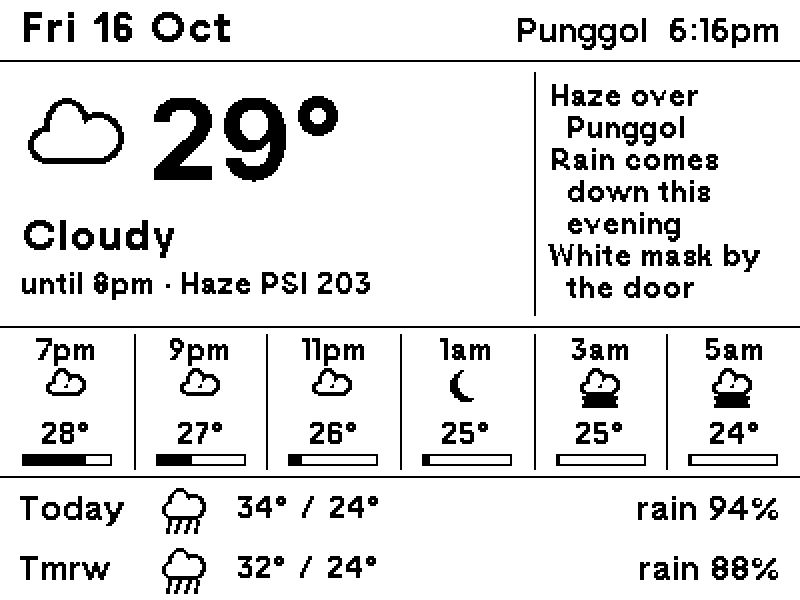
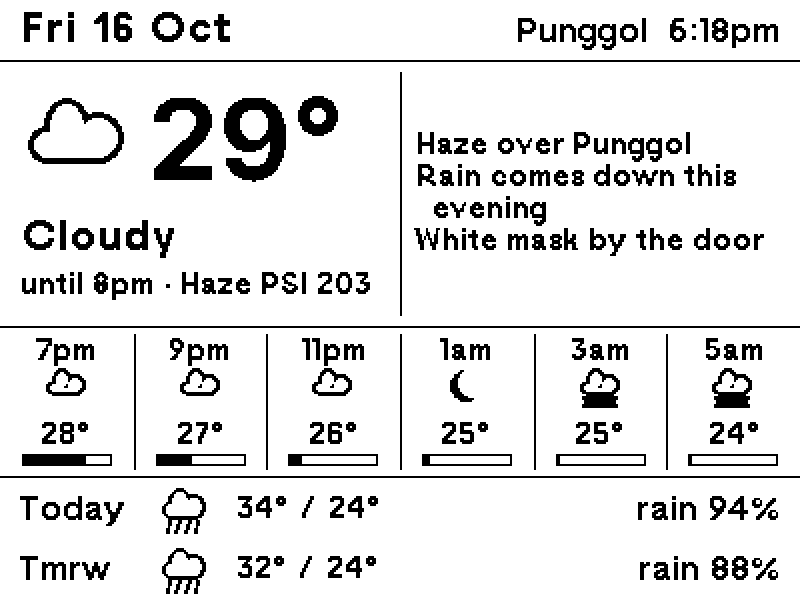
note: haiku panel takes 3/6 of the width; long conditions wrap
Main block and haiku panel split at the 3rd hourly divider. Panel width is
now a setting passed to the haiku fit check.

Changed region(s): [[0.5, 0.12, 0.9688, 0.51], [0.875, 0.03, 0.9062, 0.06]]

diff --git a/screens/note.py b/screens/note.py
@@ -1,9 +1,9 @@
 """Layout "note": glance with a compact main block, a side panel for an LLM weather haiku, and a
 6-column hourly strip.
 
-Grid: the hourly strip is 6 columns of 400/6 px. The main block spans exactly 4 of them
-(x 0-267) and the note panel the other 2, so the panel divider lines up with the 4th column
-divider below. Hourly slots keep glance's slot proportions (100x112 -> 67x75).
+Grid: the hourly strip is 6 columns of 400/6 px. The main block spans exactly 3 of them
+(x 0-200) and the haiku panel the other 3, so the panel divider lines up with the 3rd column
+divider below (2/6 and 2.5/6 were tried; 2.5 breaks the grid). Hourly slots keep glance's slot proportions (100x112 -> 67x75).
 """
 import datetime as dt
 
@@ -16,7 +16,8 @@ from screens import quip, weather
 
 COLS = 6
 COL_W = 400 / COLS
-SPLIT = round(4 * COL_W)                       # 267: main | note
+MAIN_COLS = 3                                  # main block width in hourly columns; the rest is the panel
+SPLIT = round(MAIN_COLS * COL_W)               # main | note divider
 MAIN_TOP, HOURLY_TOP, DAYS_TOP = 30, 163, 238  # horizontal rules
 INDENT = 8  # continuation lines of a wrapped haiku line
 
@@ -24,8 +25,13 @@ INDENT = 8  # continuation lines of a wrapped haiku line
 def fetch(lat: float, lon: float) -> dict:
     """Weather data plus the LLM quip (cached; None when unavailable)."""
     data = weather.fetch(lat, lon)
-    data["quip"] = quip.get(data)
+    data["quip"] = quip.get(data, width=panel_text_width())
     return data
+
+
+def panel_text_width() -> int:
+    """Usable haiku line width in the side panel (continuation lines are indented)."""
+    return 400 - SPLIT - 14 - INDENT
 
 
 def note_text(data: dict) -> tuple[str, str | None]:
@@ -42,13 +48,23 @@ def _main(img, d, fc: Forecast):
     icon_mid(img, icons.nea_kind(fc.condition), 38, cy, 56, night=fc.night(fc.now))
     text_mid(d, 74, cy, f"{round(fc.cur['temperature_2m'])}°", bold(56))
 
-    # condition on one line under them: 21 px if it fits, else 16 px
+    # condition under them: one line at 21 px if it fits, else 16 px, wrapping to two lines if needed
     width = SPLIT - 20
-    font = bold(21) if d.textlength(fc.condition, font=bold(21)) <= width else bold(16)
-    text_top(d, 10, 110, wrap(d, fc.condition, font, width, max_lines=1)[0], font)
-    sub = " · ".join(s for s in (fc.until and f"until {fc.until}", fc.psi > 100 and f"Haze PSI {fc.psi}") if s)
-    if sub:
-        text_top(d, 10, 136, wrap(d, sub, medium(14), width, max_lines=1)[0], medium(14))
+    if d.textlength(fc.condition, font=bold(21)) <= width:
+        lines, font, sub_y = [fc.condition], bold(21), 136
+    else:
+        font = bold(16)
+        lines = wrap(d, fc.condition, font, width, max_lines=2)
+        sub_y = 136 if len(lines) == 1 else 144
+    for k, line in enumerate(lines):
+        text_top(d, 10, (110 if len(lines) == 1 else 106) + k * 18, line, font)
+    parts = [s for s in (fc.until and f"until {fc.until}", fc.psi > 100 and f"Haze PSI {fc.psi}") if s]
+    joined = " · ".join(parts)
+    if parts and d.textlength(joined, font=medium(14)) <= width:
+        text_top(d, 10, sub_y, joined, medium(14))
+    else:  # narrow main block: until / haze on their own lines
+        for k, part in enumerate(parts):
+            text_top(d, 10, sub_y - 4 + k * 16, wrap(d, part, medium(14), width, max_lines=1)[0], medium(14))
 
 
 def _note(d, data: dict):

diff --git a/screens/quip.py b/screens/quip.py
@@ -18,13 +18,13 @@ from screens.weather import psi_band
 
 CACHE = Path(__file__).resolve().parent.parent / ".cache" / "quip.json"
 MIN_WORDS, MAX_WORDS = 8, 22  # a 5-7-5 haiku in English
-PANEL_W, PANEL_LINES = 400 - 267 - 14 - 8, 7  # note.py side panel at 14 px, minus continuation indent
+PANEL_W, PANEL_LINES = 400 - 200 - 14 - 8, 7  # default: note.py panel at 3/6, 14 px; note passes its width
 
 
-def fits(text: str) -> bool:
+def fits(text: str, width: int = PANEL_W) -> bool:
     """True if the haiku fits the side panel at the larger 14 px size."""
     d = ImageDraw.Draw(Image.new("1", (1, 1)))
-    return len(wrap_lines(d, text, medium(14), PANEL_W)) <= PANEL_LINES
+    return len(wrap_lines(d, text, medium(14), width)) <= PANEL_LINES
 
 SYSTEM = """You write a haiku for a small black-and-white e-ink weather display in a home in Punggol, \
 Singapore.
@@ -80,7 +80,8 @@ def clean(text: str) -> str:
     return "\n".join(lines)
 
 
-def generate(fc: Forecast, data: dict, attempts: int = 4, model: str | None = None) -> tuple[str, str]:
+def generate(fc: Forecast, data: dict, attempts: int = 4, model: str | None = None,
+             width: int = PANEL_W) -> tuple[str, str]:
     """Ask the model until a reply passes validation. Returns (haiku, model).
 
     openrouter/free picks a random free model per request, and some of them are useless here (a
@@ -96,7 +97,7 @@ def generate(fc: Forecast, data: dict, attempts: int = 4, model: str | None = No
             continue
         text = clean(text)
         words, lines = len(text.split()), len(text.splitlines())
-        if lines == 3 and MIN_WORDS <= words <= MAX_WORDS and fits(text):
+        if lines == 3 and MIN_WORDS <= words <= MAX_WORDS and fits(text, width):
             return text, used
         problems.append(f"{used}: {lines} lines, {words} words")
         prompt = base + (f"\n\nA previous answer had {lines} lines and {words} words. "
@@ -104,7 +105,7 @@ def generate(fc: Forecast, data: dict, attempts: int = 4, model: str | None = No
     raise RuntimeError("no usable haiku: " + "; ".join(problems))
 
 
-def get(data: dict, now: dt.datetime | None = None, force: bool = False) -> str | None:
+def get(data: dict, now: dt.datetime | None = None, force: bool = False, width: int = PANEL_W) -> str | None:
     """Cached quip for the current forecast, or None if unavailable."""
     if not llm.configured():
         return None
@@ -114,7 +115,7 @@ def get(data: dict, now: dt.datetime | None = None, force: bool = False) -> str 
     if not force and cached.get("sig") == sig:
         return cached["text"]
     try:
-        text, model = generate(fc, data)
+        text, model = generate(fc, data, width=width)
     except Exception as exc:
         print(f"quip: generation failed ({exc}); using fallback")
         return cached.get("text") if cached.get("sig", "").split("|")[0] == sig.split("|")[0] else None

diff --git a/README.md b/README.md
@@ -42,7 +42,7 @@ Switch with `epd.cli use <name>`. The choice is stored in [`config.toml`](config
 | --- | --- | --- |
 | `glance` (layout A) | Header · big icon + temperature (top-aligned with the condition), NEA condition, "until 6.30pm", haze line only if PSI > 100 · next 12 h as 4 slots 3 h apart (hour, icon, temp, rain bar) · Today and Tmrw as one line each (icon, high/low, rain %) | Everyday |
 | `rain` (layout B) | Header · headline that answers "when does it rain?" ("Rain 6pm–9pm", "Rain tmrw from 11am", "Dry next 24 hours") + PSI if > 100 · "Now 30° · thundery showers" · 24 h chance-of-rain bar chart with a dotted 50% line · Today/Tmrw high/low | Wet-season days |
-| `note` **(default)** | Header · compact now block (icon + temperature, condition, until/haze) spanning 4 of 6 columns · side panel with an **LLM-written weather haiku** · next 12 h as 6 slots 2 h apart · Today/Tmrw lines | When you want a little personality |
+| `note` **(default)** | Header · compact now block (icon + temperature, condition, until/haze) spanning 3 of 6 columns, haiku panel the other 3 · side panel with an **LLM-written weather haiku** · next 12 h as 6 slots 2 h apart · Today/Tmrw lines | When you want a little personality |
 | `detailed` | The original dense screen: now block with RH/wind/PSI, 8 hourly slots 2 h apart, Today/Tmrw cards with rain mm, UV, sunset | Reference only. Too dense to read on the panel |
 
 The shared header on `glance` and `rain`: date left; place and time right; `BATT LOW` only when the battery is low.
